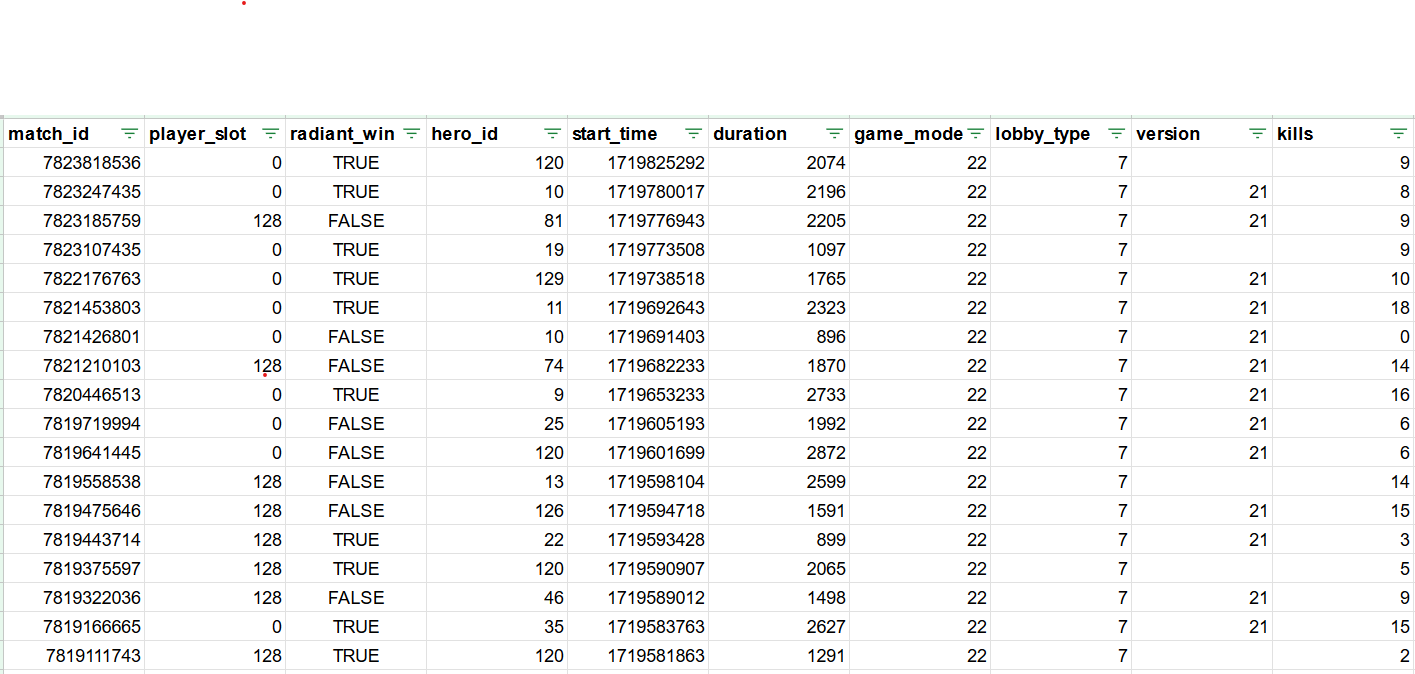
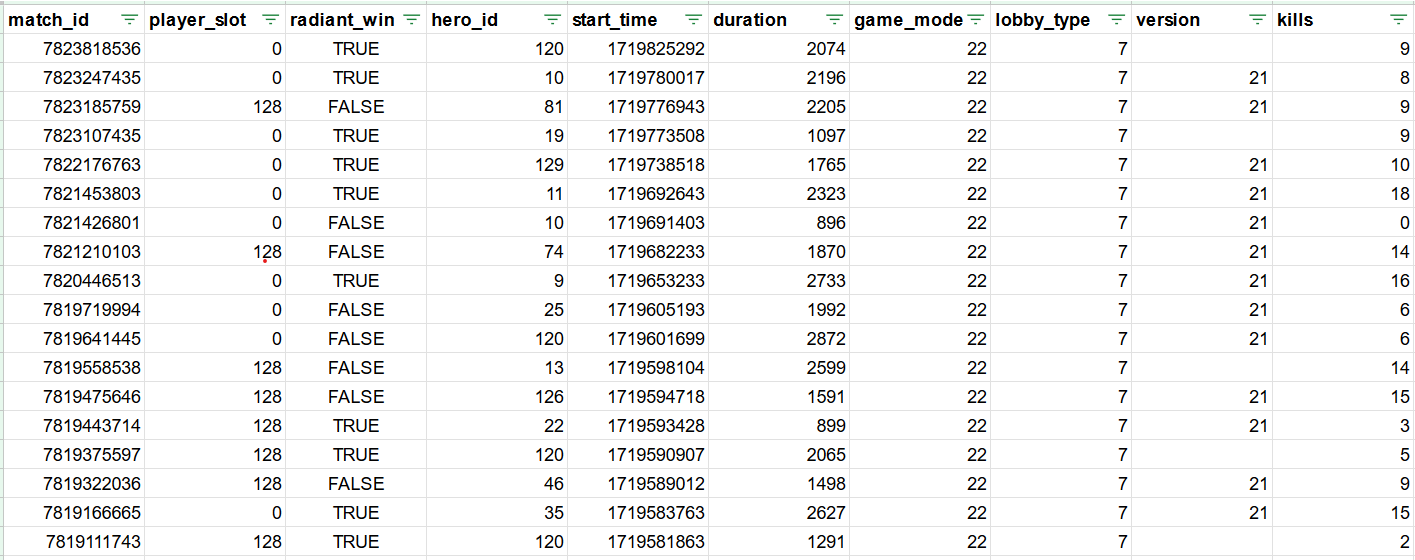
modified:   README.md 	modified:   images/Example.png

diff --git a/README.md b/README.md
@@ -65,7 +65,7 @@ An all in one data warehouse utilising the API provided by OpenDota.com.
 <br />
 <div align="center">
   <a href="https://github.com/chasimm3/dota_project">
-    <img src="images/Example.png" width="1415" height="674">
+    <img src="images/Example.png" width="1415" height="560">
   </a>
  </div>
 
